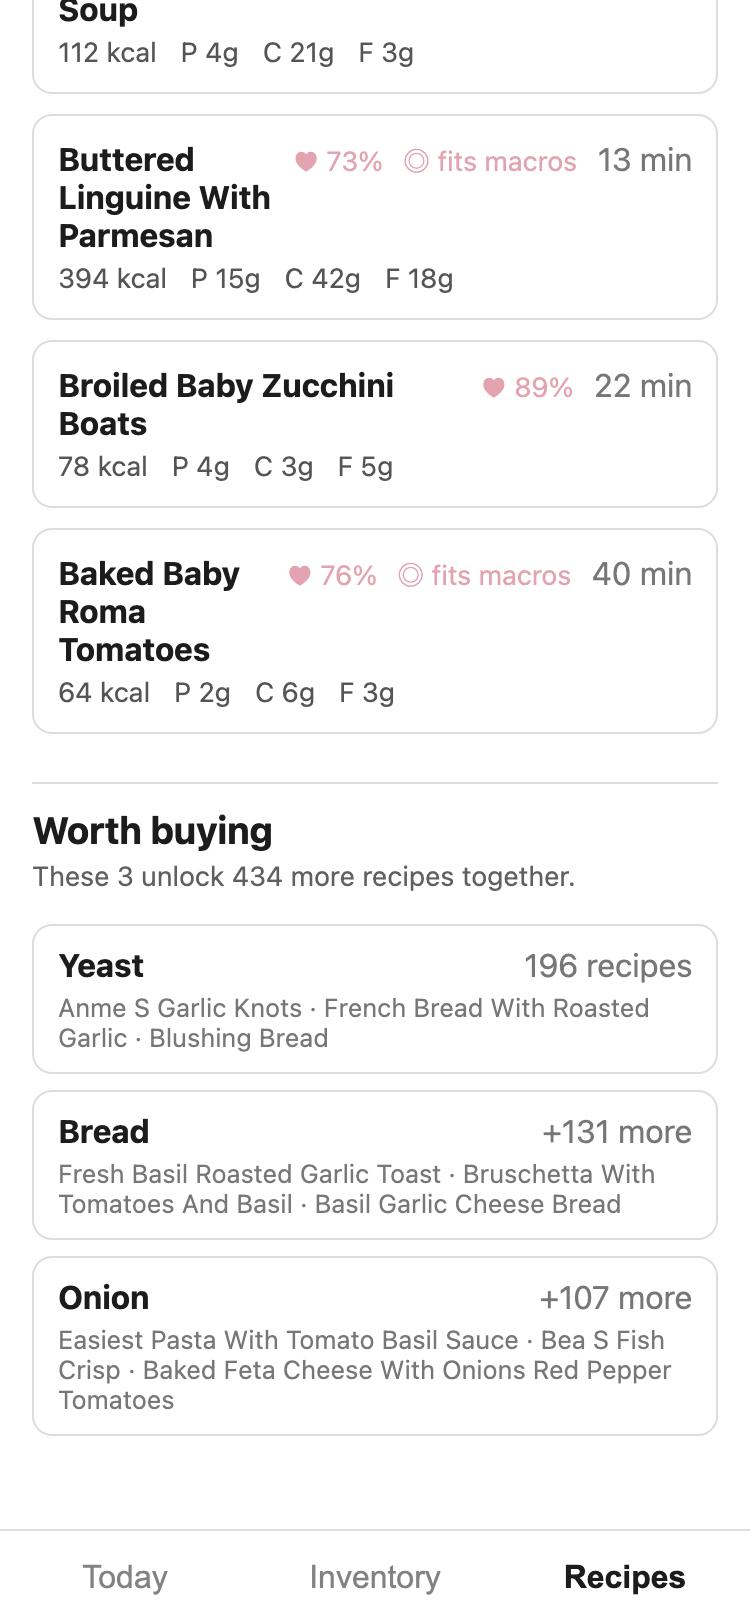
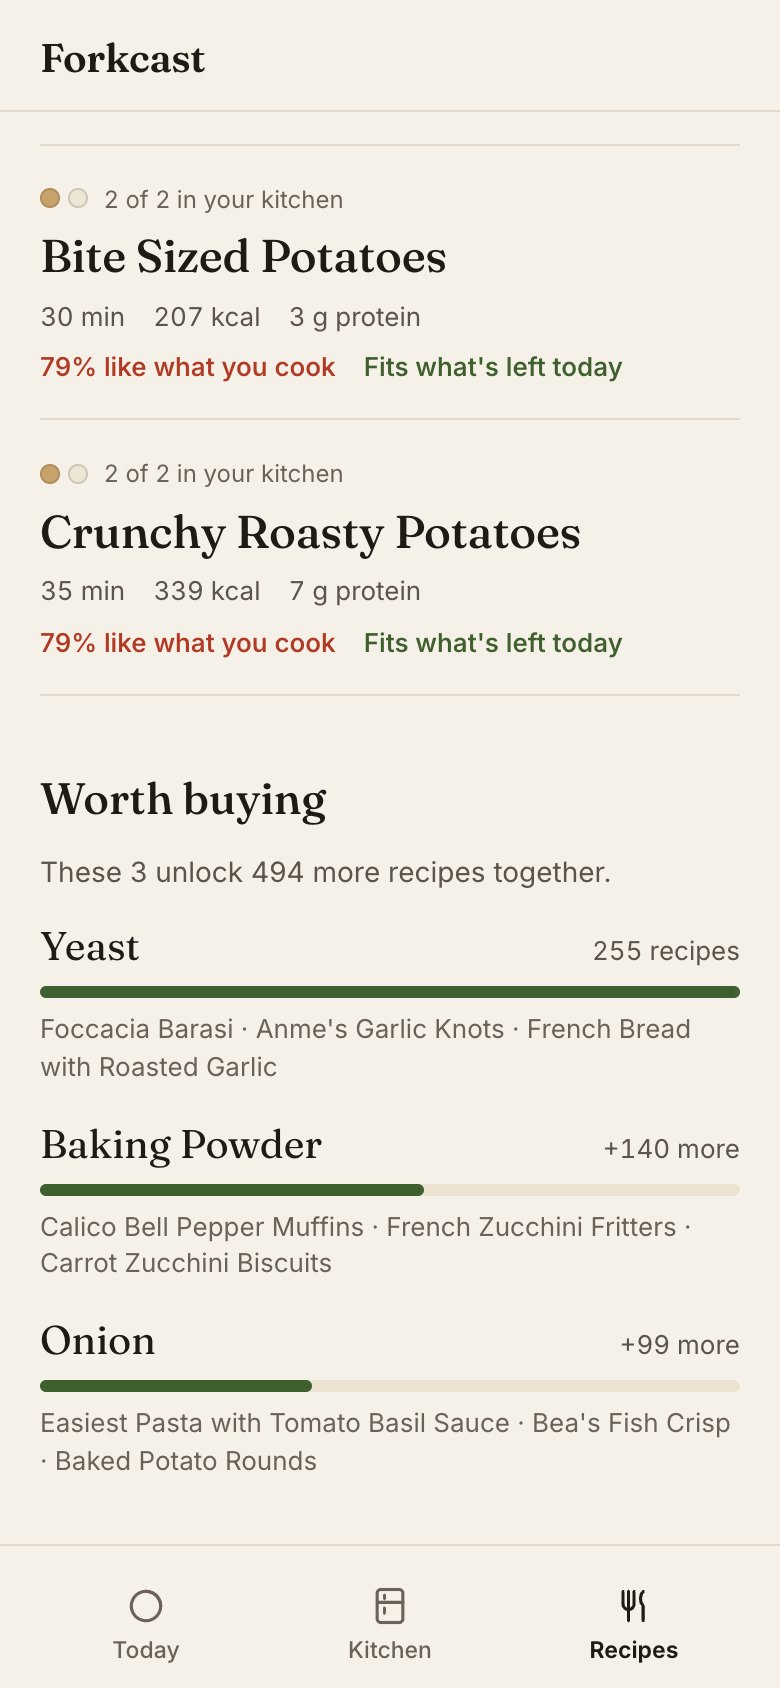
Screenshots script, accessibility check and README design section
- ops/screenshots.sh builds the app, starts it on a throwaway data dir,
  seeds a demo kitchen through the API and runs frontend/scripts/
  screenshots.mjs, which drives the installed Chrome (playwright-core,
  no browser download) and runs axe-core (WCAG 2.1 AA) on every screen.
  It fails on any serious or critical violation; current screens: 0.
- Regenerated all README screenshots in the new design, plus a desktop
  hero and the Kitchen screen.
- Long author notes on the recipe page clamp to three lines with
  "Read more", so the ingredients stay in view.
- README: new screenshot layout, a short Design section in plain words,
  test count 207.

Changed region(s): [[0.0, 0.4618, 1.0, 0.9852], [0.0307, 0.0, 0.9813, 0.431], [0.7973, 0.3387, 0.92, 0.3695]]

diff --git a/frontend/src/screens/RecipeView.tsx b/frontend/src/screens/RecipeView.tsx
@@ -5,6 +5,9 @@ import { BackIcon, CloseIcon, NextIcon } from "../Icons";
 
 type Ingredient = RecipeDetail["ingredients"][number];
 
+/** Notes longer than this get clamped to three lines with "Read more". */
+const LONG_NOTE = 140;
+
 export function RecipeView({ id, onBack }: { id: number; onBack: () => void }) {
   const [recipe, setRecipe] = useState<RecipeDetail | null>(null);
   const [cooked, setCooked] = useState(false);
@@ -12,6 +15,7 @@ export function RecipeView({ id, onBack }: { id: number; onBack: () => void }) {
   const [usedUp, setUsedUp] = useState<Set<string>>(new Set());
   const [busy, setBusy] = useState(false);
   const [cooking, setCooking] = useState(false);
+  const [moreText, setMoreText] = useState(false);
 
   useEffect(() => {
     api.recipe(id).then(setRecipe);
@@ -94,7 +98,27 @@ export function RecipeView({ id, onBack }: { id: number; onBack: () => void }) {
         {status} · {recipe.minutes} min
       </p>
       <h1>{displayName(recipe.name)}</h1>
-      {recipe.description && <p className="description">“{sentence(recipe.description)}”</p>}
+      {recipe.description && (
+        // Authors' notes run long; three lines keep the ingredients in view.
+        <>
+          <p
+            id="recipe-description"
+            className={recipe.description.length > LONG_NOTE && !moreText ? "description clamped" : "description"}
+          >
+            “{sentence(recipe.description)}”
+          </p>
+          {recipe.description.length > LONG_NOTE && (
+            <button
+              className="link more-link"
+              aria-expanded={moreText}
+              aria-controls="recipe-description"
+              onClick={() => setMoreText(!moreText)}
+            >
+              {moreText ? "Show less" : "Read more"}
+            </button>
+          )}
+        </>
+      )}
 
       <dl className="stats">
         {recipe.calories != null && <Stat value={Math.round(recipe.calories)} label="kcal" />}

diff --git a/frontend/src/App.css b/frontend/src/App.css
@@ -766,3 +766,11 @@ input:focus-visible, select:focus-visible { outline: 2px solid var(--accent); ou
   vertical-align: middle;
 }
 .login .field-hint { text-align: center; }
+
+.description.clamped {
+  display: -webkit-box;
+  -webkit-line-clamp: 3;
+  -webkit-box-orient: vertical;
+  overflow: hidden;
+}
+.more-link { margin-top: 6px; min-height: 32px; font-size: 14px; }

diff --git a/README.md b/README.md
@@ -5,14 +5,14 @@ have, finds which of 87,861 recipes you can cook with it right now, puts the
 ones that suit your taste and today's calorie and protein budget first, and
 tells you what to buy to unlock more.
 
-| Today | Recipe feed | Recipe detail | Worth buying |
-|---|---|---|---|
-| <img src="docs/screenshots/today.jpg" width="200" alt="Today: calorie and macro progress against targets, with today's logged meals and their ratings"> | <img src="docs/screenshots/recipes.jpg" width="200" alt="Recipe feed: cookable recipes with taste match, a fits-macros badge and a protein-to-go hint"> | <img src="docs/screenshots/recipe.jpg" width="200" alt="Recipe detail: the recipe's own ingredient wording, ticked against the inventory, lemon suggested for the missing lime, staples shown as pantry"> | <img src="docs/screenshots/shopping.jpg" width="200" alt="Worth buying: yeast unlocks 196 recipes, then bread 131 more, then onion 107 more"> |
-| Calories and macros against your daily targets | Ranked by taste and by what fits today's remaining budget | Ingredients you have are ticked; lemon stands in for lime | Three purchases that unlock 434 more recipes |
+<img src="docs/screenshots/desktop.jpg" alt="Forkcast on a laptop: the recipe feed on the left with coloured ingredient dots and taste match, the open recipe on the right with its ingredients ticked against the kitchen">
 
-> **The UI is a working first version, not a finished design.** It shows the
-> engine behind it (ranking, swaps, macro steering), and a visual polish pass
-> is next. Screenshots come from a demo kitchen with a sample profile.
+| Recipes | Recipe | Worth buying | Today | Kitchen |
+|---|---|---|---|---|
+| <img src="docs/screenshots/recipes.jpg" width="160" alt="Recipe feed on a phone: tabs for cookable now, one away and two away; each recipe shows coloured dots for its main ingredients, how many you have, its taste match and whether it fits what's left today"> | <img src="docs/screenshots/recipe.jpg" width="160" alt="Recipe page: title, a three-line author's note with Read more, calories and macros, and the ingredients you already have"> | <img src="docs/screenshots/shopping.jpg" width="160" alt="Worth buying: yeast unlocks 255 recipes, then baking powder 140 more, then onion 99 more, each with example dishes"> | <img src="docs/screenshots/today.jpg" width="160" alt="Today: a ring with calories left, protein, carbs and fat bars with grams to go, and today's meals"> | <img src="docs/screenshots/kitchen.jpg" width="160" alt="Kitchen: a scan button, an add-by-name field and the ingredients grouped by kind"> |
+| What you can cook, best first | What you have is ticked | Three buys that unlock the most | Calories and macros left | What Forkcast matches against |
+
+Screenshots come from a demo kitchen with a sample profile, not real data.
 
 ## How it works
 
@@ -204,9 +204,29 @@ one was on hand.
 - **Corpus:** 87,861 recipes and ~794k ingredient rows, with per-serving
   nutrition.
 - **Vision cost:** about $0.005 per Haiku scan. Barcode lookups cost nothing.
-- **Tests:** 204 pytest tests in under a second, offline and without the corpus (41 of
+- **Tests:** 207 pytest tests in under a second, offline and without the corpus (41 of
   them need the Epicure weights and skip without them), plus frontend lint and
   build, all in CI.
+
+## Design
+
+The look is warm and editorial: a serif for headings, a cream background and
+food colours used sparingly, so recipes read like a cookbook page rather than a
+dashboard. It is built phone-first and switches to a two-column layout on a
+laptop, with the open recipe beside the list.
+
+The app should explain itself. A short three-step walkthrough runs on first
+open, and each main screen has a **?** button that explains what you are looking at
+in plain words (for example what the coloured dots and "% like what you cook"
+mean). Labels say what they mean instead of using internal terms.
+
+It follows the system's light or dark mode, every text colour passes the WCAG
+AA contrast check, and there is a keyboard-friendly focus style and reduced
+motion support. `ops/screenshots.sh` rebuilds the app, starts it on a throwaway
+demo kitchen, takes the screenshots above in a real browser, and runs the
+[axe-core](https://github.com/dequelabs/axe-core) accessibility check on every
+screen. It fails if axe finds a serious or critical WCAG 2.1 AA problem; the
+current screens have none.
 
 ## Design decisions
 
